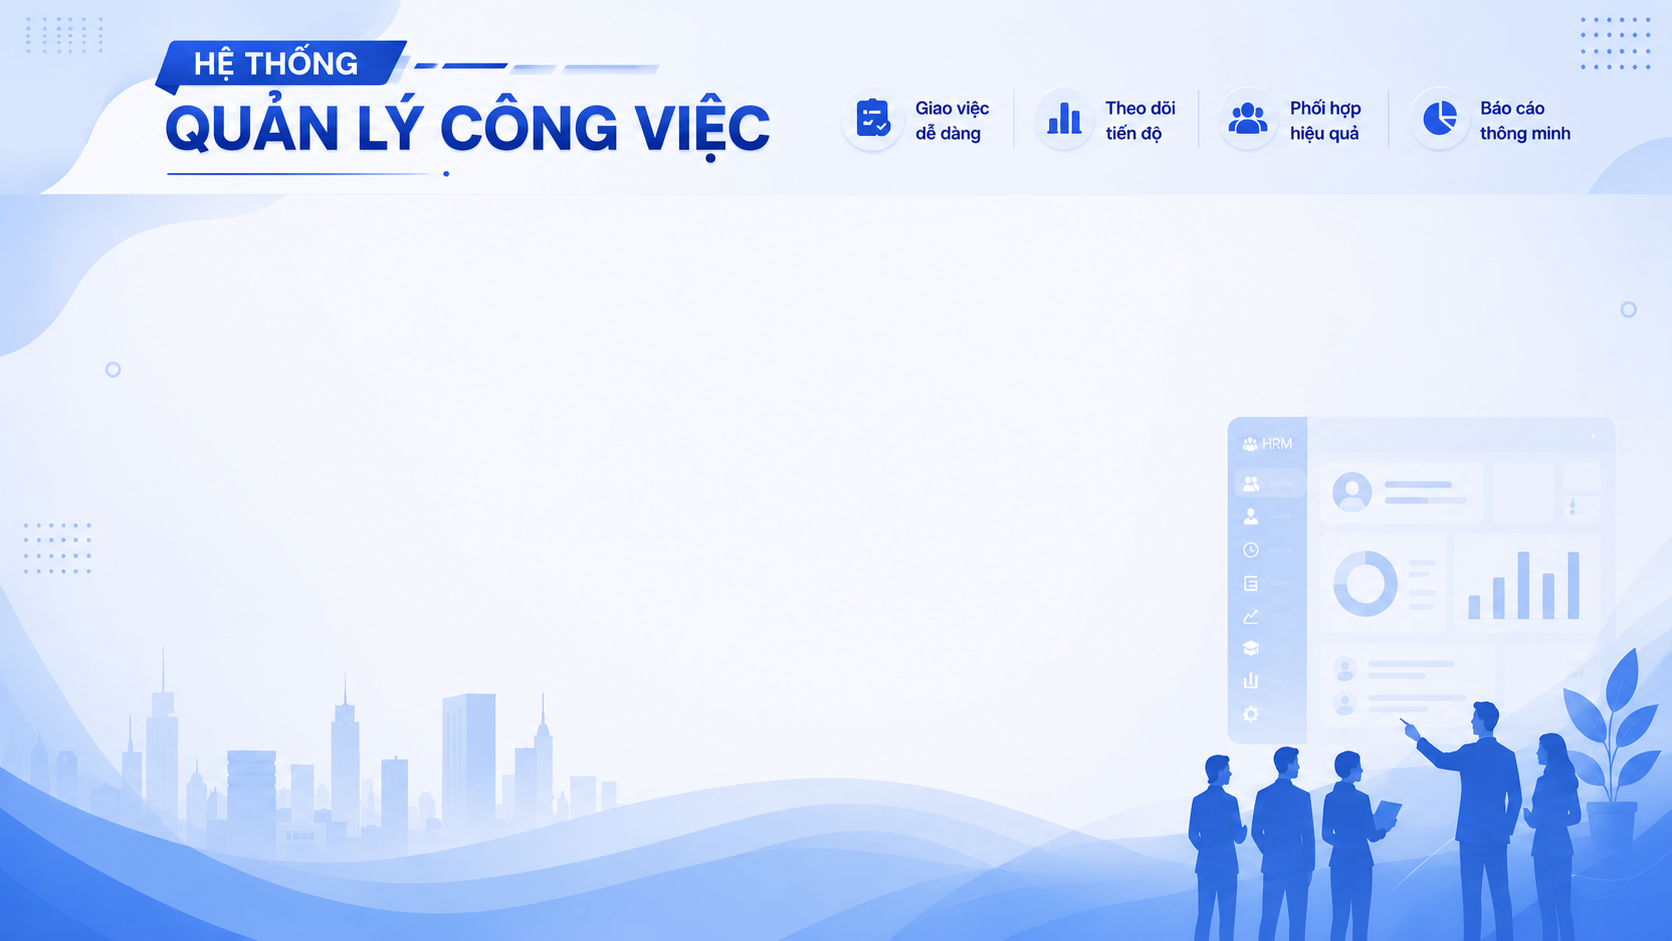
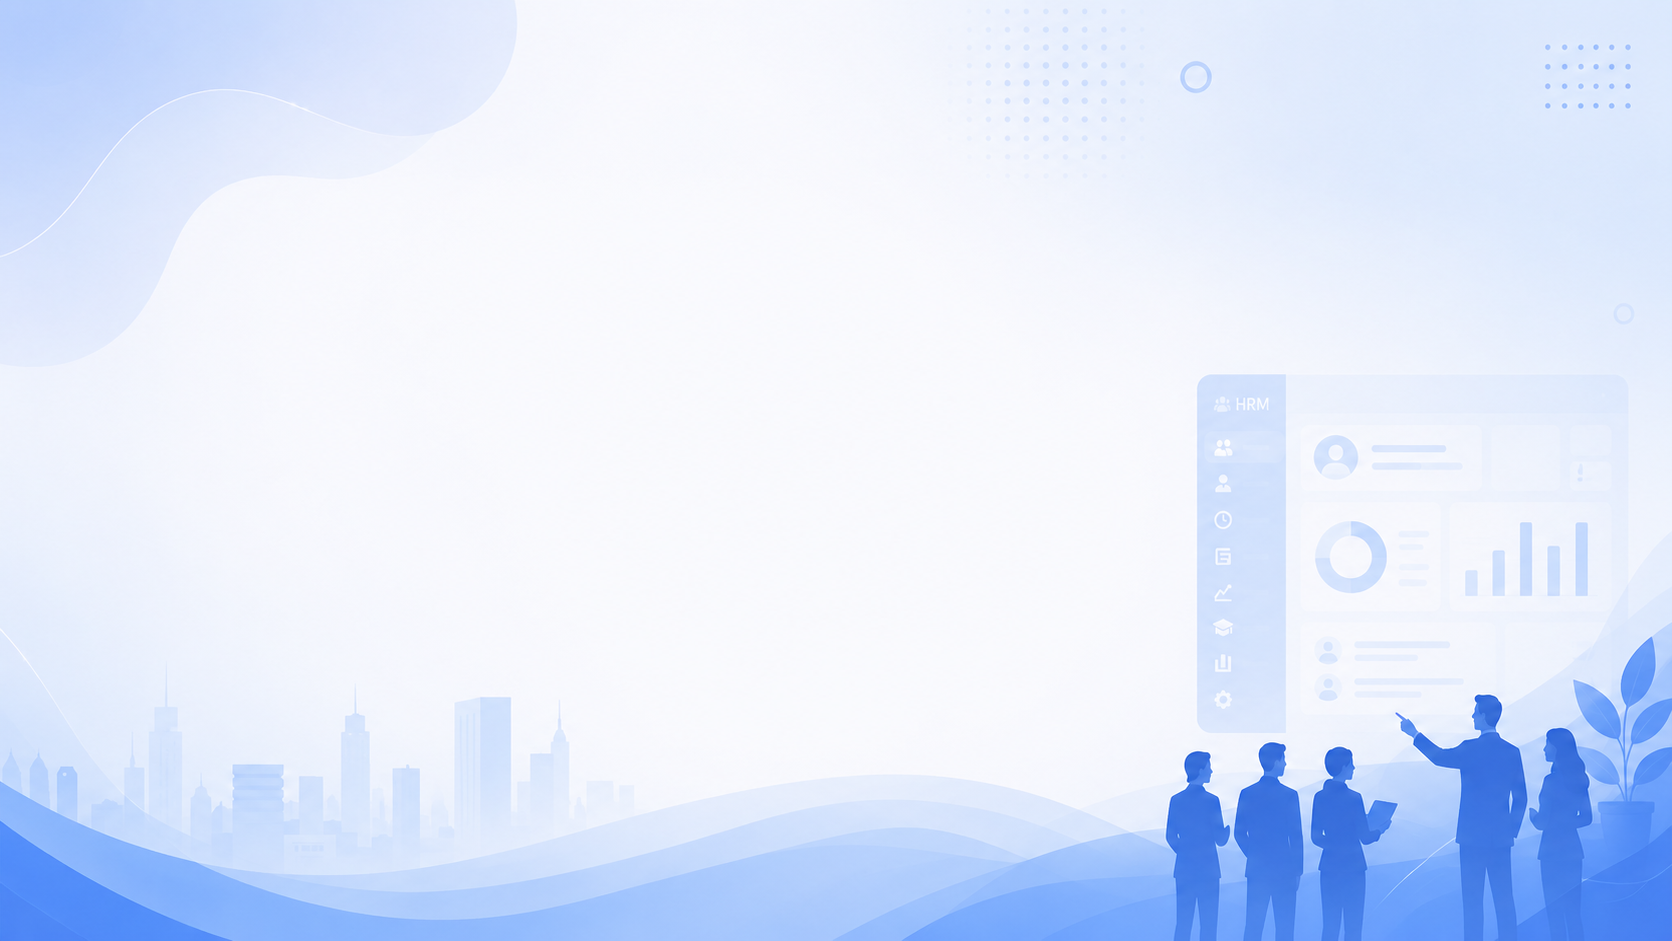
update

diff --git a/src/pages/LoginPage.jsx b/src/pages/LoginPage.jsx
@@ -3,6 +3,7 @@ import { Form, Input, Button, Card, message } from "antd";
 import { UserOutlined, LockOutlined } from "@ant-design/icons";
 import authService from "../services/authService";
 import { useNavigate } from "react-router-dom";
+import { Layout, Menu } from "antd";
 
 const LoginPage = () => {
   const [loading, setLoading] = useState(false);
@@ -29,8 +30,9 @@ const LoginPage = () => {
   };
 
   return (
-    <div
+    <Layout
       style={{
+        minHeight: "100vh",
         display: "flex",
         justifyContent: "center",
         alignItems: "center",
@@ -42,6 +44,23 @@ const LoginPage = () => {
         position: "relative",
       }}
     >
+      <p
+        style={{
+          position: "absolute",
+          top: "20%",
+          left: "50%",
+          transform: "translateX(-50%)",
+          textAlign: "center",
+          width: "100%",
+          color: "#3068ec",
+          // textShadow: "0 2px 8px rgba(0,0,0,0.7)",
+          margin: 0,
+          fontSize: 60,
+          fontWeight: "bold",
+        }}
+      >
+        HỆ THỐNG QUẢN LÝ CÔNG VIỆC
+      </p>
       <Card
         title={<h2 style={{ textAlign: "center" }}>ĐĂNG NHẬP</h2>}
         style={{ width: 400, boxShadow: "0 4px 12px rgba(0,0,0,0.1)" }}
@@ -80,7 +99,7 @@ const LoginPage = () => {
           </Form.Item>
         </Form>
       </Card>
-    </div>
+    </Layout>
   );
 };
 